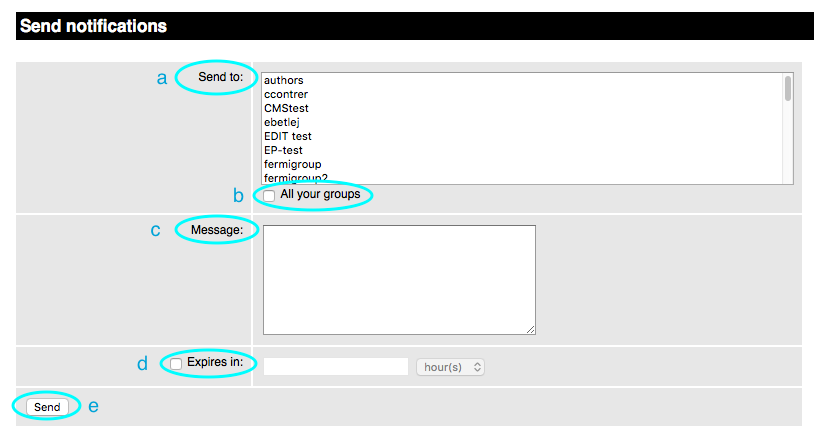
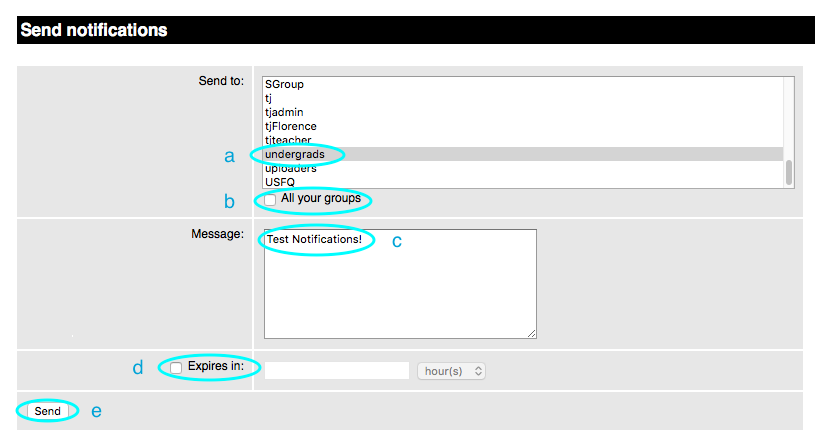
Notif_tryit.html & graphics/tryPerf/Notif3-6.png

diff --git a/cosmic/src/jsp/library/Notif_tryit.html b/cosmic/src/jsp/library/Notif_tryit.html
@@ -10,8 +10,8 @@
 <center>
 <table width="525"  cellpadding="4" cellspacing="4">
 
-<tr><td colspan="2" height="16"></td></tr>
-<tr><td>Step 1:</td> <td> After logging in, click on the Notifications icon.</td></tr>
+<tr><td colspan="2" height="16"><b>First, we shall log in as a teacher and send a notification to 'undergrads'.</b></td></tr>
+<tr><td>Step 1:</td> <td> Click on the Notifications icon.</td></tr>
 <tr><td colspan="2"><IMG src="../graphics/tryPerf/Notif1.png"></td></tr>
 
 <tr><td colspan="2" height="16"></td></tr>
@@ -28,6 +28,21 @@
     d.)  If you want your notification to expire, click the box, and choose how long before it expires.  <br>
     e.)  Click send.  </td></tr>
 <tr><td colspan="2"><IMG src="../graphics/tryPerf/Notif3.png"></td></tr>
+
+<tr><td colspan="2" height="16"></td></tr>
+<tr><td colspan="2" height="16"><b>Second, we shall log in as a student and view the notification.</b></td></tr>
+<tr><td>Step 4:</td> <td>Click on the Notifications icon. </td></tr>
+<tr><td colspan="2"><IMG src="../graphics/tryPerf/Notif4.png"></td></tr>
+
+<tr><td colspan="2" height="16"></td></tr>
+<tr><td>Step 5:  </td>
+<td>a.)  A click on 'New' will mark the notification as 'Read'. <br>
+    b.)  Click 'See all notifications' to view the ones sent to you.  </td></tr>
+<tr><td colspan="2"><IMG src="../graphics/tryPerf/Notif5.png"></td></tr>
+
+<tr><td colspan="2" height="16"></td></tr>
+<tr><td>Step 6:</td> <td>View notifications sent to you. </td></tr>
+<tr><td colspan="2"><IMG src="../graphics/tryPerf/Notif6.png"></td></tr>
 
 </table>
 </center>
